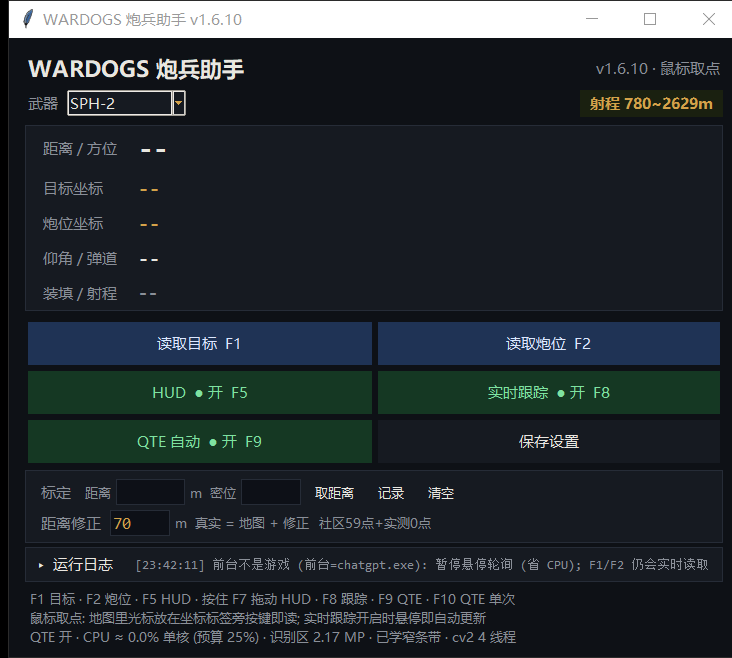
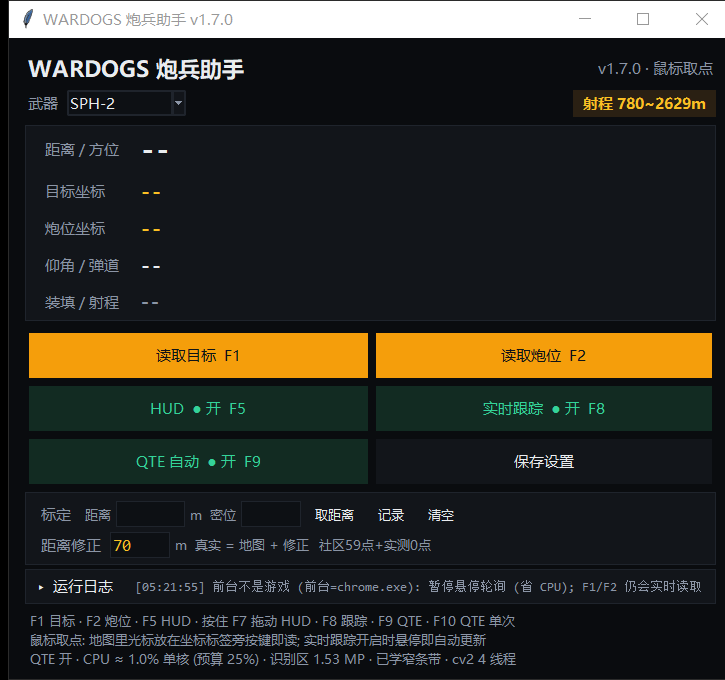
v1.7.0: 应用图标 + UI 简约现代化改版
图标: PIL 确定性绘制 (琥珀瞄准环+弹道虚线), 双母版分尺寸嵌入 ICO, exe/标题栏/任务栏三处接线

UI: 近黑底+冷灰+单一琥珀主色, 主操作实心琥珀, 开关翡翠描边, 输入/组合框全深色, 间距放宽; 文案与控件结构零变化

diff --git a/gui_app.py b/gui_app.py
@@ -36,7 +36,7 @@ import artillery_tool as core
 
 # 版本号单一事实源: 窗口标题 / UI 副标题 / 单实例弹框都从这里取,
 # 免得三处各写各的 (用户截图里就出现过"标题 v1.6.6 / 副标题 v1.1"这种不一致)。
-APP_VER = "v1.6.11"
+APP_VER = "v1.7.0"
 
 # 必须在 tk.Tk() 之前: 让进程从第一行起就是 DPI 感知, 与 mss 截屏 /
 # GetPhysicalCursorPos 同处物理像素坐标系。否则 mss 会在后台轮询线程里
@@ -57,10 +57,19 @@ if getattr(sys, "frozen", False):
 else:
     BASE = core.SCRIPT_DIR
 
-BG, PANEL, FG, DIM, GOLD, GREEN, RED = "#0e1116", "#161a21", "#e8e6e0", "#8a8f98", "#d4a24a", "#7dd87d", "#e06c5a"
+# v1.7.0 简约现代化配色: 近黑底 + 冷灰文字 + 单一琥珀主色; 开关用翡翠绿,
+# 警告/失败用柔红。全部控件只从这组常量取色, 不再散落硬编码。
+BG, PANEL, FG, DIM, GOLD, GREEN, RED = "#0a0c0f", "#12151a", "#e9ecef", "#8b95a6", "#fbbf24", "#34d399", "#f87171"
 # v1.6.7 前台闸: "不是游戏"必须连续保持这么久才真的停摆 (瞬时抖动不闸)
 FG_FLAP_MS = 400
-BORDER, HOVER = "#262c37", "#39424f"   # 卡片描边 / 控件悬停 (v1.1)
+BORDER, HOVER = "#1f242c", "#2a313c"   # 卡片描边 / 控件悬停 (v1.1)
+PANEL_IN = "#0d1014"                   # v1.7.0: 输入框/组合框内底 (比卡片再深一档)
+GHOST_H_BG = "#1a1f26"                 # v1.7.0: 次要按钮悬停底
+PRIMARY_BG, PRIMARY_BG_H = "#f59e0b", "#fbbf24"   # v1.7.0: 主操作实心琥珀
+PRIMARY_FG = "#101317"                 # v1.7.0: 主操作上的深色字
+TOG_BG, TOG_BG_H = "#122b22", "#17382c"   # v1.7.0: 开关 ON 底/悬停
+TOG_BD, TOG_BD_H = "#1d4634", "#2b6a4b"   # v1.7.0: 开关 ON 描边/悬停
+BADGE_BG = "#2a2013"                 # v1.7.0: 射程徽章底 (琥珀 8% 感)
 
 def virtual_screen():
     u = ctypes.windll.user32
@@ -139,14 +148,25 @@ class App:
 
         self.root = tk.Tk()
         self.root.title("WARDOGS 炮兵助手 " + APP_VER)
+        try:                                  # v1.7.0 应用图标 (缺文件时静默跳过)
+            _ico = os.path.join(BASE, "app.ico")
+            if os.path.exists(_ico):
+                self.root.iconbitmap(_ico)
+                self.root.iconbitmap(default=_ico)
+        except Exception:
+            pass
         self.root.configure(bg=BG)
         st = ttk.Style(self.root)
         st.theme_use("clam")
         st.configure("TButton", background=PANEL, foreground=FG, borderwidth=1, focusthickness=0, padding=6)
         st.map("TButton", background=[("active", "#2a3140"), ("pressed", "#33405a")])
-        st.configure("TCombobox", fieldbackground=PANEL, background=PANEL, foreground=FG, arrowcolor=GOLD)
-        st.map("TCombobox", fieldbackground=[("readonly", PANEL)])
+        st.configure("TCombobox", fieldbackground=PANEL_IN, background=PANEL, foreground=FG,
+                     arrowcolor=DIM, bordercolor=BORDER, lightcolor=BORDER, darkcolor=BORDER)
+        st.map("TCombobox", fieldbackground=[("readonly", PANEL_IN)])
         st.map("TCombobox", foreground=[("readonly", FG)])
+        for _k, _v in (("background", PANEL), ("foreground", FG),
+                       ("selectBackground", HOVER), ("selectForeground", FG)):
+            self.root.option_add("*TCombobox*Listbox." + _k, _v)
         st.configure("TLabelframe", background=BG, foreground=GOLD)
         st.configure("TLabelframe.Label", background=BG, foreground=GOLD)
 
@@ -202,19 +222,19 @@ class App:
         开关类开=绿色高亮(●), 关=灰(○); 主操作=蓝色; 次要=描边灰。"""
         kind, on, hover = getattr(b, "_kind", "ghost"), getattr(b, "_on", False), getattr(b, "_hover", False)
         if kind == "primary":
-            bg, fg, bd = (("#2a4a77", "#dbe7ff", "#6ea2ff") if hover
-                          else ("#1f3355", "#dbe7ff", "#4c8dff"))
+            bg, fg, bd = ((PRIMARY_BG_H, PRIMARY_FG, PRIMARY_BG_H) if hover
+                          else (PRIMARY_BG, PRIMARY_FG, PRIMARY_BG))
         elif kind == "toggle" and on:
-            bg, fg, bd = (("#1f4a2c", "#a7f3c4", "#34d877") if hover
-                          else ("#153823", "#7ee2a0", "#22c55e"))
+            bg, fg, bd = ((TOG_BG_H, GREEN, TOG_BD_H) if hover
+                          else (TOG_BG, GREEN, TOG_BD))
         else:
-            bg, fg, bd = (("#1d232c", FG, HOVER) if hover
+            bg, fg, bd = ((GHOST_H_BG, FG if kind == "toggle" else FG, HOVER) if hover
                           else (PANEL, DIM if kind == "toggle" else FG, BORDER))
         b.configure(bg=bg, fg=fg, activebackground=bg, activeforeground=fg,
                     highlightbackground=bd, highlightcolor=bd, highlightthickness=1)
 
     def _mk_btn(self, parent, text, cmd, kind="ghost", font=("Microsoft YaHei UI", 9),
-                padx=10, pady=7):
+                padx=10, pady=8):
         b = tk.Button(parent, text=text, command=cmd, bd=0, padx=padx, pady=pady,
                       font=font, cursor="hand2", takefocus=0)
         b._kind, b._on, b._hover = kind, False, False
@@ -261,7 +281,7 @@ class App:
                           values=names)
         cb.pack(side="left", padx=(6, 8))
         cb.bind("<<ComboboxSelected>>", lambda e: (self.save_cfg(), self._weapon_range_sync()))
-        self.wrange_lbl = tk.Label(top, text="", bg="#1a2010", fg=GOLD, padx=8, pady=2,
+        self.wrange_lbl = tk.Label(top, text="", bg=BADGE_BG, fg=GOLD, padx=8, pady=2,
                                    font=("Microsoft YaHei UI", 9, "bold"))
         self.wrange_lbl.pack(side="right")
 
@@ -275,7 +295,7 @@ class App:
                 ("extra", "装填 / 射程", DIM, 11)]
         for key, label, color, fs in rows:
             f = tk.Frame(card, bg=PANEL)
-            f.pack(fill="x", padx=14, pady=3)
+            f.pack(fill="x", padx=16, pady=4)
             tk.Label(f, text=label, bg=PANEL, fg=DIM, width=9, anchor="w",
                      font=("Microsoft YaHei UI", 9)).pack(side="left")
             v = tk.Label(f, text="--", bg=PANEL, fg=color, anchor="w",
@@ -297,7 +317,7 @@ class App:
             txt = "%s  %s" % (base, hot) if hot else base
             b = self._mk_btn(btns, txt, cmd, kind)
             b._base, b._hot = base, hot
-            b.grid(row=i // 2, column=i % 2, sticky="ew", padx=3, pady=3)
+            b.grid(row=i // 2, column=i % 2, sticky="ew", padx=4, pady=4)
             self.btn_map[base] = b
         self.hud_btn = self.btn_map["HUD"]
         self.live_btn = self.btn_map["实时跟踪"]
@@ -316,12 +336,12 @@ class App:
         self.cal_d = tk.StringVar(); self.cal_m = tk.StringVar()
         tk.Label(row1, text="距离", bg=PANEL, fg=DIM,
                  font=("Microsoft YaHei UI", 8)).pack(side="left", padx=(8, 0))
-        tk.Entry(row1, textvariable=self.cal_d, width=7, bg="#0d1017", fg=GOLD,
+        tk.Entry(row1, textvariable=self.cal_d, width=7, bg=PANEL_IN, fg=GOLD,
                  insertbackground=FG, relief="flat", font=("Consolas", 10),
                  highlightthickness=1, highlightbackground=BORDER).pack(side="left", padx=2)
         tk.Label(row1, text="m  密位", bg=PANEL, fg=DIM,
                  font=("Microsoft YaHei UI", 8)).pack(side="left")
-        tk.Entry(row1, textvariable=self.cal_m, width=6, bg="#0d1017", fg=GOLD,
+        tk.Entry(row1, textvariable=self.cal_m, width=6, bg=PANEL_IN, fg=GOLD,
                  insertbackground=FG, relief="flat", font=("Consolas", 10),
                  highlightthickness=1, highlightbackground=BORDER).pack(side="left", padx=2)
         for txt, cmd in (("取距离", self.cal_use_dist), ("记录", self.cal_add),
@@ -333,7 +353,7 @@ class App:
         tk.Label(row2, text="距离修正", bg=PANEL, fg=DIM,
                  font=("Microsoft YaHei UI", 9)).pack(side="left")
         self.cal_off = tk.StringVar(value="0")
-        self.cal_off_e = tk.Entry(row2, textvariable=self.cal_off, width=6, bg="#0d1017",
+        self.cal_off_e = tk.Entry(row2, textvariable=self.cal_off, width=6, bg=PANEL_IN,
                                   fg=GOLD, insertbackground=FG, relief="flat",
                                   font=("Consolas", 10), highlightthickness=1,
                                   highlightbackground=BORDER)
@@ -1865,21 +1885,21 @@ class App:
             h.attributes("-topmost", True)
             h.attributes("-toolwindow", True)   # 不进任务栏 / Alt-Tab
             h.attributes("-alpha", 0.0)   # 量尺寸期间先隐形, 避免在左上角闪一下
-            h.configure(bg="#0b0d10")
+            h.configure(bg=BG)
             h.geometry("10x10+0+0")
-            big = tk.Label(h, text="-- m", bg="#0b0d10", fg=GOLD,
+            big = tk.Label(h, text="-- m", bg=BG, fg=GOLD,
                            font=("Consolas", 26, "bold"), anchor="w", padx=10)
             big.pack(fill="x", pady=(6, 0))
-            sub = tk.Label(h, text="方位 --  仰角 --", bg="#0b0d10", fg=FG,
+            sub = tk.Label(h, text="方位 --  仰角 --", bg=BG, fg=FG,
                            font=("Microsoft YaHei", 10), anchor="w", padx=10)
             sub.pack(fill="x")
-            xy1 = tk.Label(h, text="目标 --", bg="#0b0d10", fg=DIM,
+            xy1 = tk.Label(h, text="目标 --", bg=BG, fg=DIM,
                            font=("Consolas", 10), anchor="w", padx=10)
             xy1.pack(fill="x")
-            xy2 = tk.Label(h, text="炮位 --", bg="#0b0d10", fg=DIM,
+            xy2 = tk.Label(h, text="炮位 --", bg=BG, fg=DIM,
                            font=("Consolas", 10), anchor="w", padx=10)
             xy2.pack(fill="x")
-            tip = tk.Label(h, text="WARDOGS HUD · 按住F7拖动 · 双击关闭", bg="#0b0d10", fg=DIM,
+            tip = tk.Label(h, text="WARDOGS HUD · 按住F7拖动 · 双击关闭", bg=BG, fg=DIM,
                            font=("Microsoft YaHei", 8), anchor="w", padx=10)
             tip.pack(fill="x", pady=(0, 4))
             # 尺寸自适应: 按"最坏情况文案"量一次内容宽高再定窗口大小。

diff --git a/docs/DEVLOG.md b/docs/DEVLOG.md
@@ -1,4 +1,4 @@
-# WARDOGS 炮兵助手 (v1.6.11)
+# WARDOGS 炮兵助手 (v1.7.0)
 
 针对《WARDOGS》(BULKHEAD / Team17, Steam appid 1867240) 全屏战术地图的
 **目标坐标 / 炮位坐标 鼠标取点** + **距离/方位/仰角解算** + **置顶距离 HUD** + **QTE 方向箭自动输入**。
@@ -1800,3 +1800,47 @@ v165 的 H 组负载复采样 (阈值 0.20 -> 0.15, 导入时读数太旧)。
 实现要点: 行首年龄 >= 行稳+候选稳 的**单一门** + 开行时 `stable_ok=True`; 注意第一版曾按
 「行首时钟到 110ms 就开行」实现, 会把**前缀行**记进记账行、尾支弹出再走 grow-confirm, 反而更慢,
 别走回头路。放弃原因与代码无关: 用户试用后选择更保守的 v1.6.11 作为发布版本。
+
+---
+
+## v1.7.0 (2026-09-28) — 应用图标 + UI 简约现代化
+
+### 用户要求
+
+> "给这个软件设计一个图标吧，然后UI美化一下，简约风格，现代化一点。"
+
+### 图标 (确定性绘制, 不用生成式模型)
+
+应用图标是简单几何标记, 生成式模型反而做不到 16px 还清晰、也不可复改。改用 PIL 矢量式绘制:
+
+* **母版两枚**: 完整版 (圆角深色方砖 + 琥珀瞄准环 + 四刻度 + 中心弹着点 + 左下飞向中心的
+  弹道虚线) 与 **简化版** (无弹道、环更粗) —— 16/24/32px 用简化版, 48px 以上用完整版;
+* **ICO 容器手写**: Vista+ 的 ico 允许 PNG 帧, 按尺寸嵌入不同母版 (16/24/32/48/64/128/256);
+* 接线三处: `spec` 的 `icon='app.ico'` (exe 文件在资源管理器里的图标) +
+  `datas` 带 `app.ico` + 运行时 `root.iconbitmap(default=...)` (标题栏/任务栏/Alt-Tab, 子窗继承);
+* 生成脚本 `work\mk_icon2.py` 留档, 改配色/改形状重跑即可再生。
+
+### UI 改版 (只动外观, 文案/控件结构/热键零变化)
+
+| 项 | 旧 | 新 |
+| --- | --- | --- |
+| 底色 / 卡片 | `#0e1116` / `#161a21` | `#0a0c0f` / `#12151a` (更沉更平) |
+| 文字 / 次级 | `#e8e6e0` / `#8a8f98` | `#e9ecef` / `#8b95a6` (冷灰) |
+| 主色 | 金 `#d4a24a` + 蓝主按钮 | **单一琥珀** `#fbbf24`; 主操作 (F1/F2) 实心琥珀 + 深色字 |
+| 开关 ON | 绿底绿字 | 翡翠 `#34d399` 描边浅底, 关=中性灰 |
+| 输入框/组合框 | 默认 ttk 白底感 | 全深色 (`PANEL_IN #0d1014`) + clam 主题 + 下拉列表同色系 |
+| 描边/悬停 | `#262c37` / `#39424f` | `#1f242c` / `#2a313c` (更隐) |
+| 间距 | 行 pady 3 / 网格 3 | 行 pady 4 / 网格 4 / 按钮内边距 +1 (呼吸感) |
+
+所有颜色收敛到文件头一组常量 (+ 新增 `PANEL_IN / GHOST_H_BG / PRIMARY_* / TOG_* / BADGE_BG`),
+散落的硬编码色值 (`#0d1017` / `#1a2010` / HUD 的 `#0b0d10`) 全部改引用常量。
+
+### 版本号说明
+
+UI+图标属可见功能升级, 版本跳 **v1.7.0**; 工具站 `version_code` 用 **172**
+(自 1.7.0 起 code 只单调递增, 不再和 x.y.z 数字对齐: 1.6.10=170 / 1.6.11=171 / 1.7.0=172)。
+
+### 回归
+
+外观改动不碰识别/状态机: 14 个脚本 + `test_qte_v1611` 全绿; 截图 (`docs/img/gui_main.png` /
+`hud.png`) 用 PrintWindow 从 v1.7.0 真窗口重抓, README 首图同步更新。

diff --git a/README.md b/README.md
@@ -1,5 +1,7 @@
 # WARDOGS 炮兵助手
 
+<img src="docs/img/icon.png" alt="WARDOGS 炮兵助手 图标" width="72" align="right">
+
 《WARDOGS》(Steam) 的炮兵计算助手：鼠标点两下就读出**目标**和**炮位**坐标，自动算出
 **距离 / 方位 / 仰角**，结果挂在游戏画面上方的悬浮小窗里边打边看；开炮前的方向键连按 (QTE)
 也可以交给它自动完成。Windows 10 / 11，单文件 exe，打开就能用。
